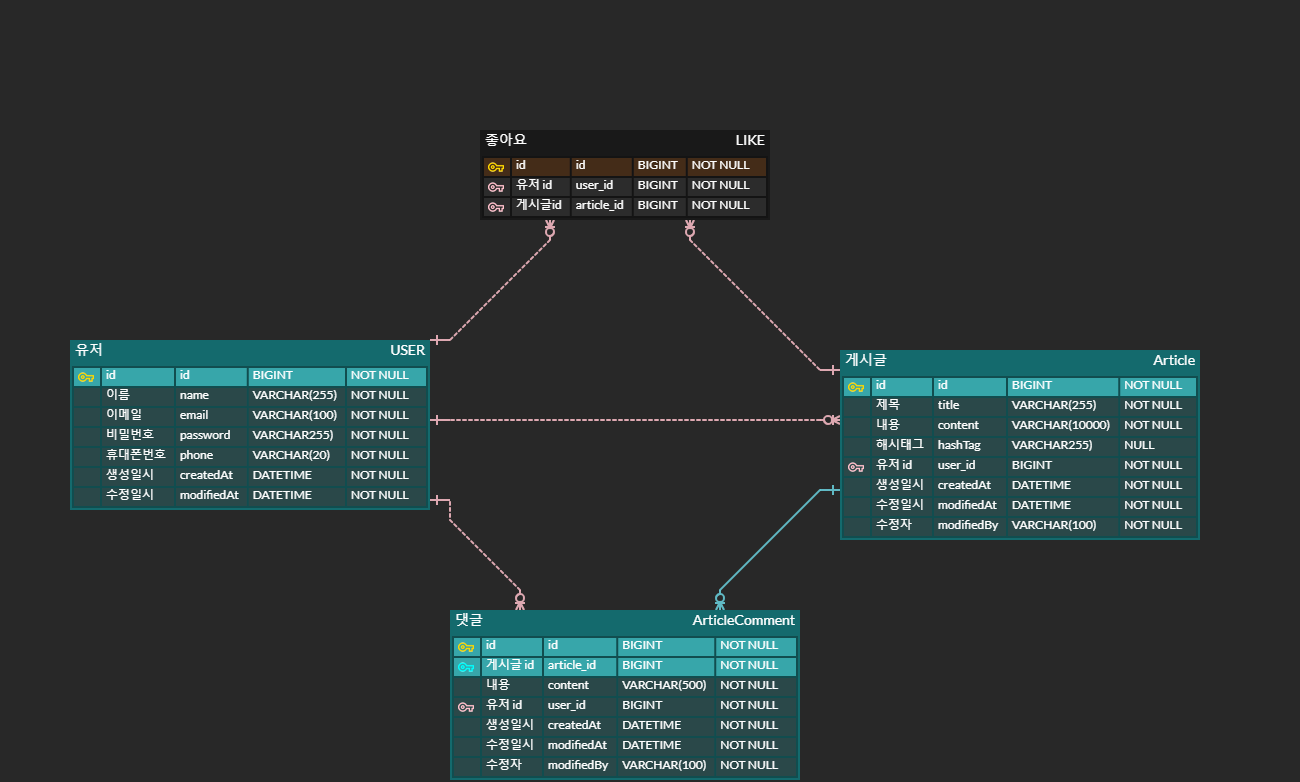
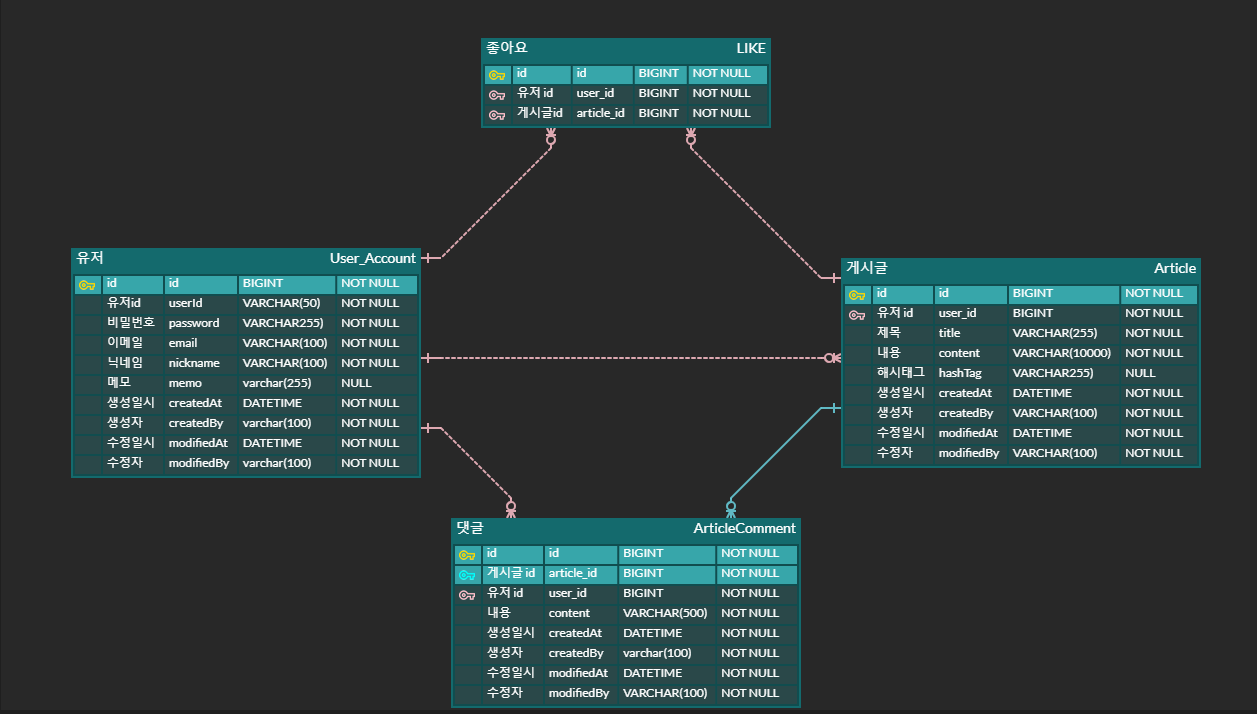
#31 - User Account 도메인 구현 및 erd 반영
`UserAccount` 이름으로 회원 계정 도메인 생성
`user`, `account` 등은 mysql 예약어이므로 피한다.

테스트 데이터에 임의 계정 1개 등록
테스트용이지만 패스워드가 노출되는 방식이므로 고민 필요

회원 정보는 API 로 노출되지 않는다.
 -> 테스트에 모든 http 메소드에 404 not found 를 확인하는 테스트 추가

diff --git a/src/main/java/com/zerobase/zerobaseprojectboard/domain/UserAccount.java b/src/main/java/com/zerobase/zerobaseprojectboard/domain/UserAccount.java
@@ -1,0 +1,68 @@
+package com.zerobase.zerobaseprojectboard.domain;
+
+import lombok.Getter;
+import lombok.Setter;
+import lombok.ToString;
+
+import javax.persistence.*;
+import java.util.Objects;
+
+@Getter
+@ToString
+@Table(indexes = {
+        @Index(columnList = "userId"),
+        @Index(columnList = "email", unique = true),
+        @Index(columnList = "createdAt"),
+        @Index(columnList = "createdBy")
+})
+@Entity
+public class UserAccount extends AuditingFields {
+    @Id
+    @GeneratedValue(strategy = GenerationType.IDENTITY)
+    private Long id;
+
+    @Setter
+    @Column(nullable = false, length = 50)
+    private String userId; // userId
+    @Setter
+    @Column(nullable = false)
+    private String userPassword; // 비밀번호
+
+    @Setter
+    @Column(length = 100)
+    private String email; // 이메일
+    @Setter
+    @Column(length = 100)
+    private String nickname; // 닉네임
+    @Setter
+    private String memo; // 제목
+
+    protected UserAccount() {}
+
+    public UserAccount(String userId, String userPassword, String email, String nickname, String memo) {
+        this.userId = userId;
+        this.userPassword = userPassword;
+        this.email = email;
+        this.nickname = nickname;
+        this.memo = memo;
+    }
+
+    public static UserAccount of(String userId, String userPassword, String email, String nickname, String memo) {
+        return new UserAccount(userId, userPassword, email, nickname, memo);
+    }
+
+    @Override
+    public boolean equals(Object o) {
+        if (this == o) return true;
+        if (!(o instanceof UserAccount userAccount)) return false;
+        return id != null && id.equals(userAccount.id);
+        // id를 아직 부여받지 않았을 때 - entity만 있고 영속화를 하지 않았을 때(db에 insert되기 전)
+        // 막 만든 아직 영속화 되지 않은 entity는 동등성 검사에서 탈락됨.(다른값으로 취급)
+    }
+
+    @Override
+    public int hashCode() {
+        return Objects.hash(id);
+    }
+
+}

diff --git a/src/test/java/com/zerobase/zerobaseprojectboard/controller/DataRestTest.java b/src/test/java/com/zerobase/zerobaseprojectboard/controller/DataRestTest.java
@@ -88,12 +88,28 @@ public class DataRestTest {
     void givenNothing_whenRequestingArticleComment_thenReturnsArticleCommentJsonResponse() throws Exception {
         // given
 
-        // when
+        // when & then
         mvc.perform(get("/api/articleComments/1"))
                 .andExpect(status().isOk())
                 .andExpect(content().contentType(MediaType.valueOf("application/hal+json")));
 
         // then
     }
+
+    @DisplayName("[API] 회원 관련 API는 일체 제공하지 않는다.")
+    @Test
+    void givenNothing_whenRequestingUserAccounts_thenThrowException() throws Exception {
+        // given
+
+        // when & then
+        mvc.perform(get("/api/userAccounts")).andExpect(status().isNotFound());
+        mvc.perform(post("/api/userAccounts")).andExpect(status().isNotFound());
+        mvc.perform(put("/api/userAccounts")).andExpect(status().isNotFound());
+        mvc.perform(patch("/api/userAccounts")).andExpect(status().isNotFound());
+        mvc.perform(delete("/api/userAccounts")).andExpect(status().isNotFound());
+        mvc.perform(head("/api/userAccounts")).andExpect(status().isNotFound());
+
+    }
+
 
 }

diff --git a/src/main/java/com/zerobase/zerobaseprojectboard/domain/AuditingFields.java b/src/main/java/com/zerobase/zerobaseprojectboard/domain/AuditingFields.java
@@ -18,7 +18,7 @@ import java.time.LocalDateTime;
 @ToString
 @EntityListeners(AuditingEntityListener.class)
 @MappedSuperclass
-public class AuditingFields {
+public abstract class AuditingFields {
     @DateTimeFormat(iso = DateTimeFormat.ISO.DATE_TIME)
     @CreatedDate
     @Column(nullable = false, updatable = false)

diff --git a/src/main/java/com/zerobase/zerobaseprojectboard/repository/UserAccountRepository.java b/src/main/java/com/zerobase/zerobaseprojectboard/repository/UserAccountRepository.java
@@ -1,0 +1,7 @@
+package com.zerobase.zerobaseprojectboard.repository;
+
+import com.zerobase.zerobaseprojectboard.domain.UserAccount;
+import org.springframework.data.jpa.repository.JpaRepository;
+
+public interface UserAccountRepository extends JpaRepository<UserAccount, Long> {
+}
